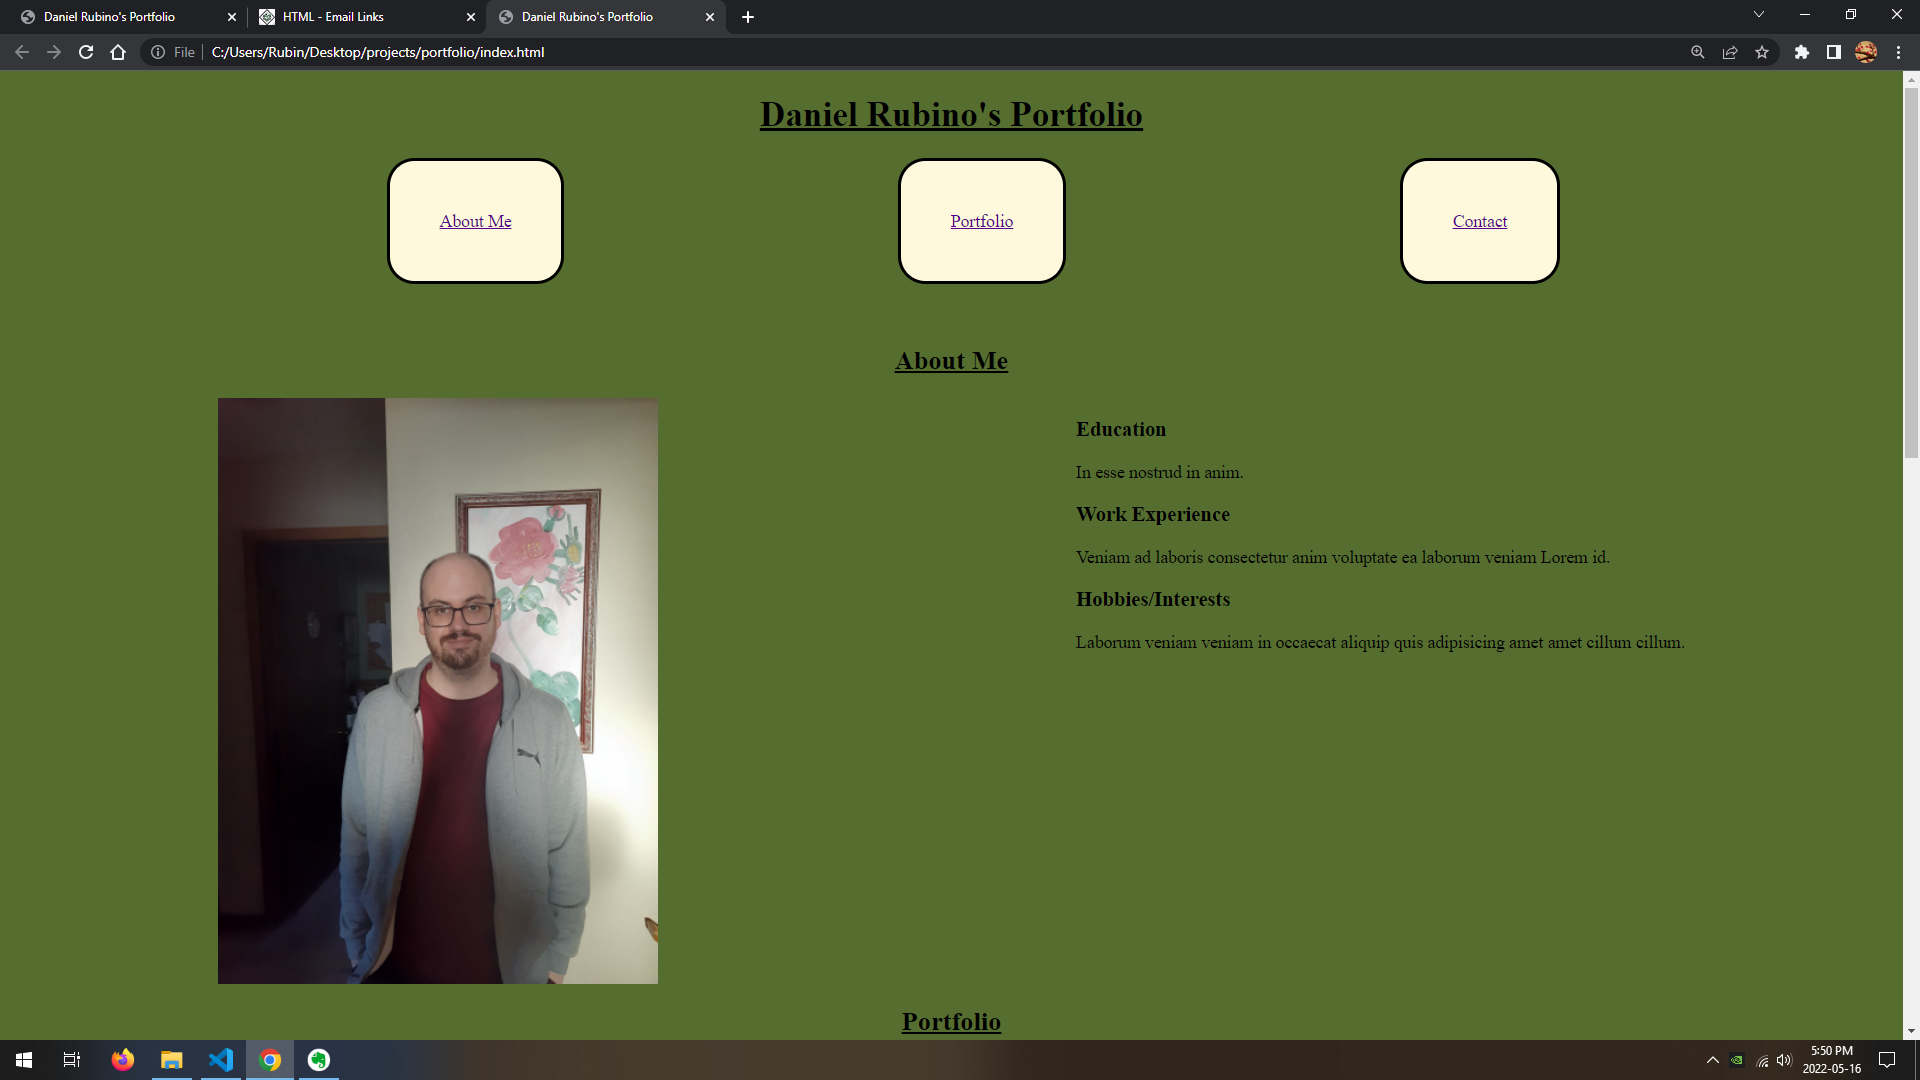
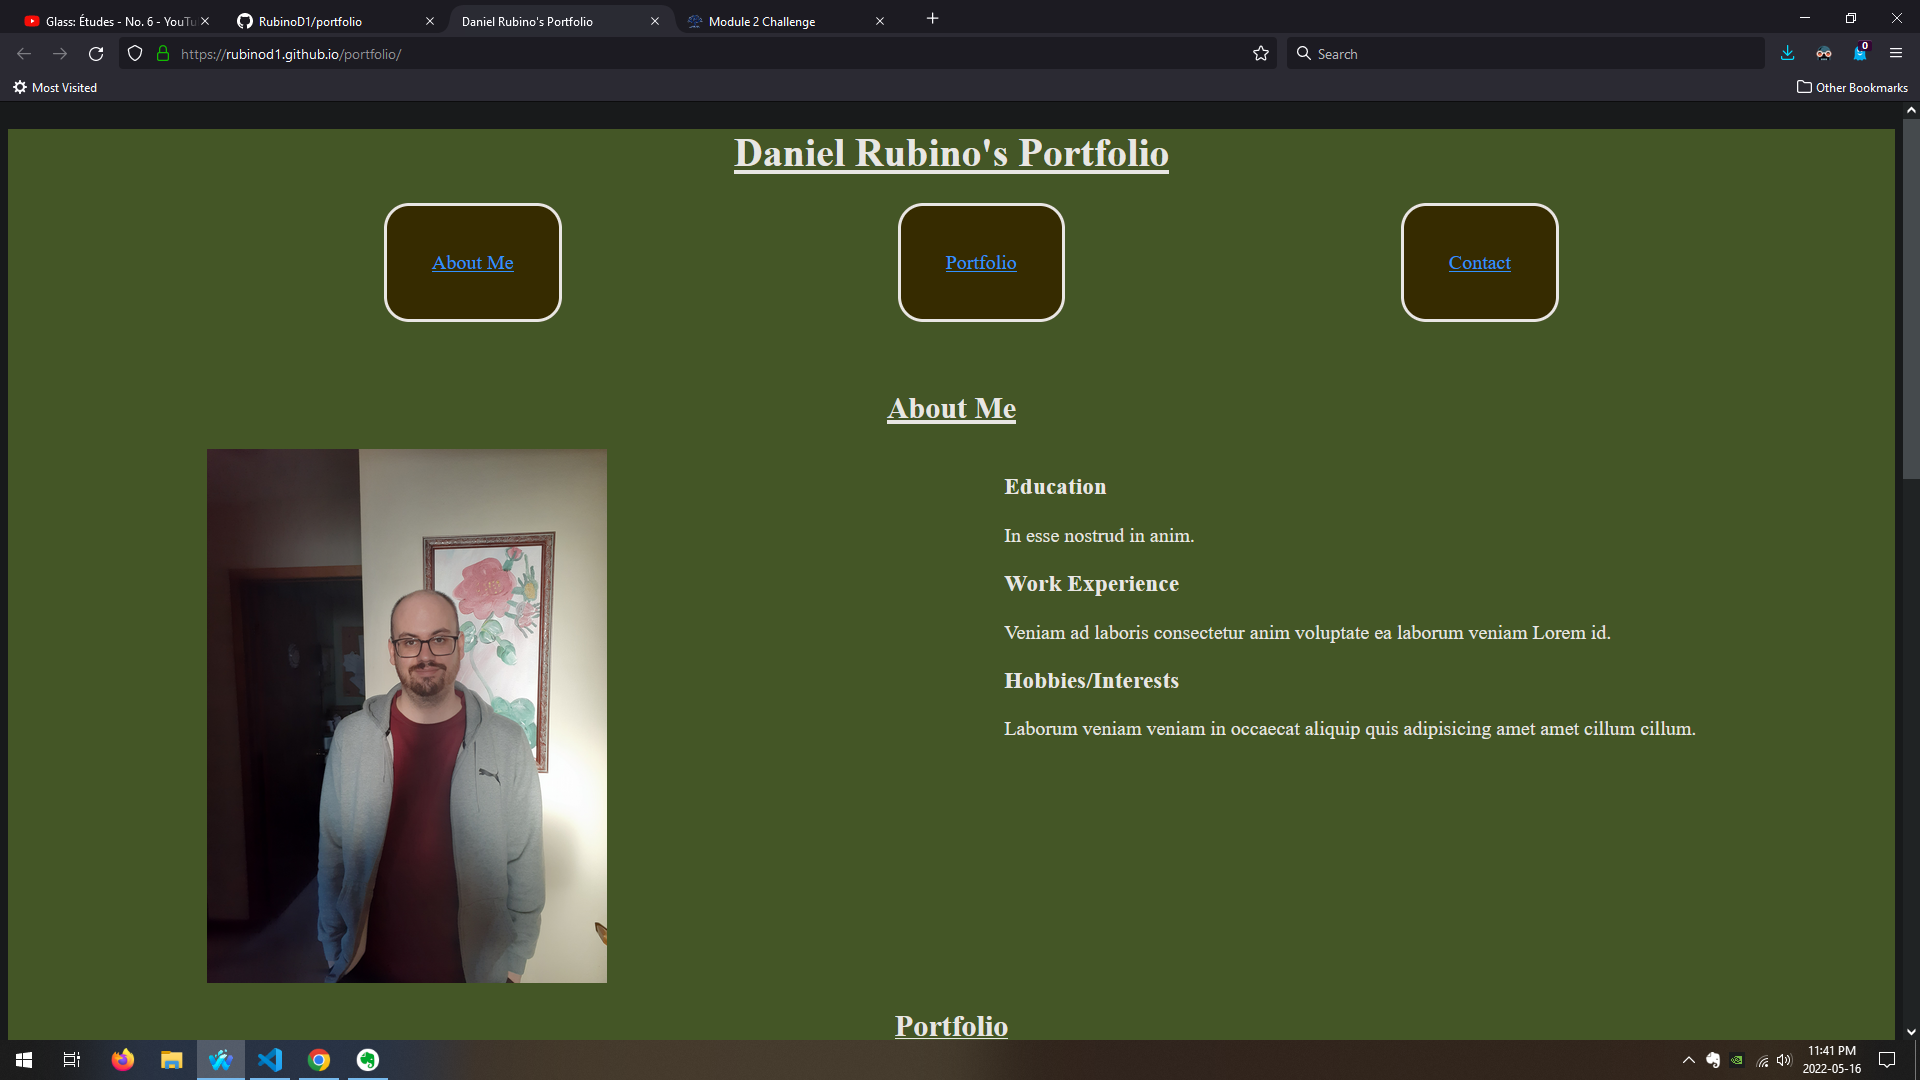
updated screenshots in README and changed colour scheme

diff --git a/assets/css/style.css b/assets/css/style.css
@@ -1,10 +1,11 @@
 :root {
-    --background-color: rgb(255, 248, 220); 
+    --li-background-color: #362b00; 
 }
 
 body {
-    background-color:darkolivegreen;
+    background-color: #445626;
     font-size: 20px;
+    color: white;
 }
 
 header h1 {
@@ -28,7 +29,7 @@ nav ul li {
     border-style: solid;
     border-radius: 25px;
     padding: 45px;
-    background-color: var(--background-color);
+    background-color: var(--li-background-color);
 }
 
 #about-me h2 {
@@ -65,7 +66,7 @@ nav ul li {
     border-style: solid;
     border-radius: 25px;
     padding: 25px;
-    background-color: var(--background-color);
+    background-color: var(--li-background-color);
 }
 
 .portfolio-main {
@@ -82,10 +83,6 @@ nav ul li {
 .portfolio-img-secondaries {
     max-height: 350px;
     width: 300px;
-}
-
-.contact-info h3 {
-    background-color: var(--background-color);
 }
 
 footer {

diff --git a/README.md b/README.md
@@ -28,3 +28,6 @@ Sample of potential employee's previous work
 Images: ![Live site screenshots](/assets/images/screenshot1.png)
 
 ![Live site screenshots](/assets/images/screenshot2.png)
+
+![Live site screenshots](/assets/images/screenshot3.png)
+
